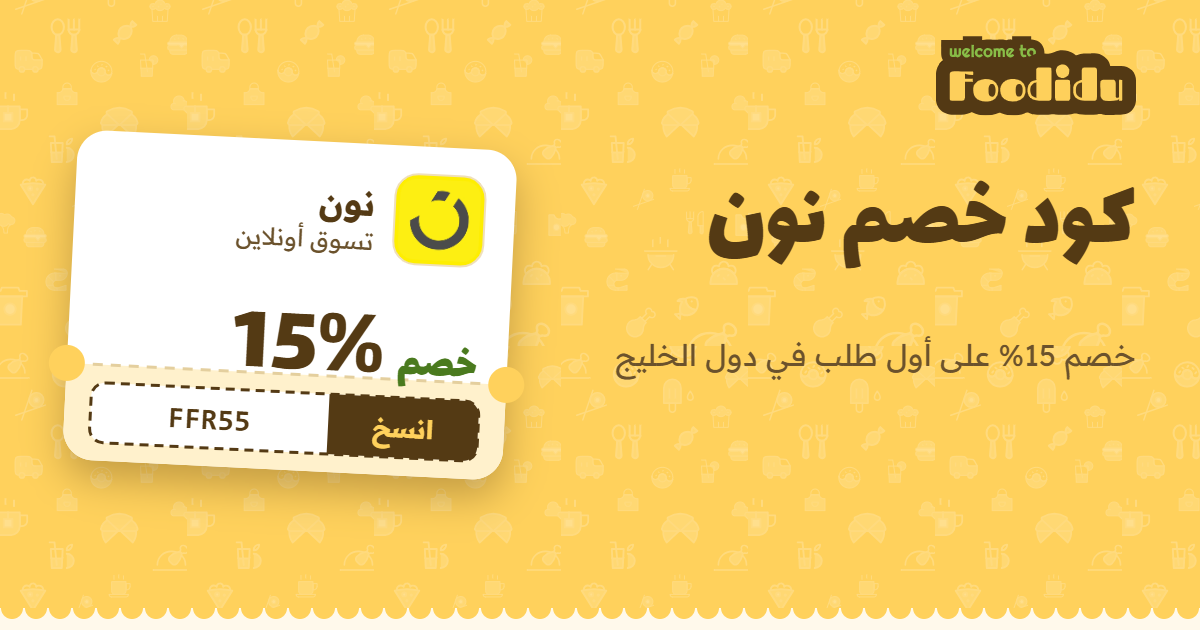
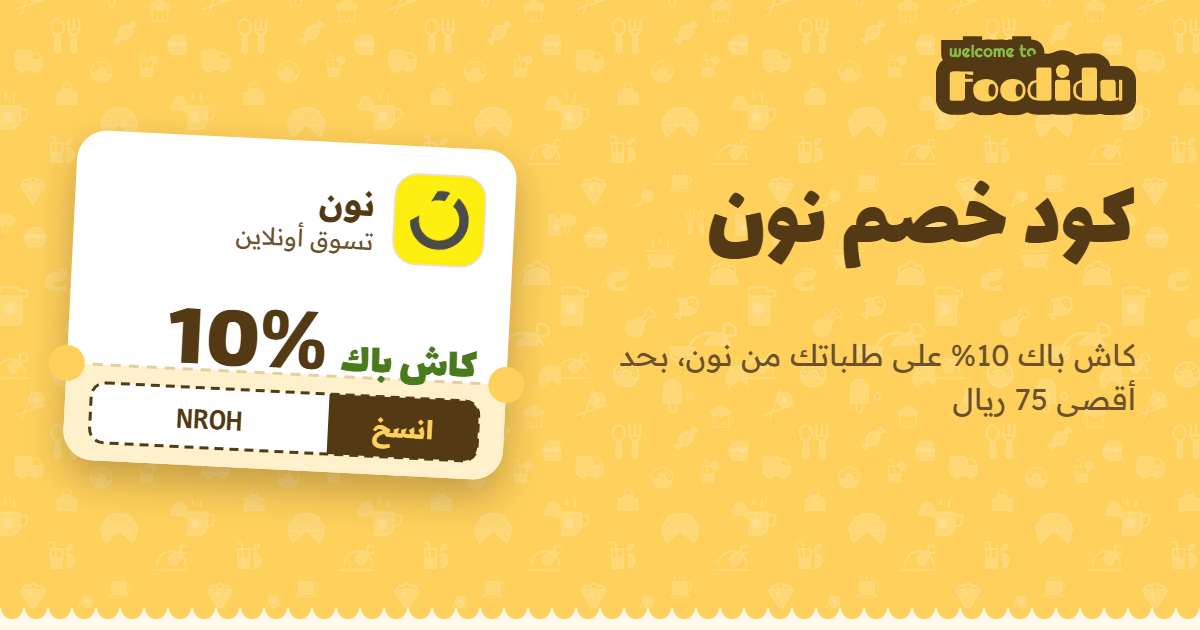
noon GCC: affiliate code NROH replaces FFR55; "Foodidu picks on Amazon" section
- noon (GCC): NROH, 10% cashback up to 75 SAR, valid until 31 Dec 2026 (from the noon affiliate dashboard). No longer a first-order code; White Friday line and share images updated
- data/amazon-picks.json: products the owner picks (ASIN + name + note in en/ar), shown on the Amazon Egypt page with the foodiduoffers-21 tag, rel="nofollow sponsored" and an affiliate disclosure. No prices (Amazon rules). Hidden while empty
- Amazon Egypt page: Arabic steps and about text in the site's standard Arabic

Changed region(s): [[0.4933, 0.5429, 0.9558, 0.6635], [0.1233, 0.4825, 0.4008, 0.6333], [0.1233, 0.6333, 0.2158, 0.6937]]

diff --git a/static/css/site.css b/static/css/site.css
@@ -844,6 +844,13 @@ a.store:hover { background: #000; transform: translateY(-2px); }
   font-family: var(--font-display); font-size: 1.6rem; background: var(--sun); color: var(--ink);
 }
 [lang="ar"] .how li::before { content: counter(how, arabic-indic); }
+.picks { list-style: none; display: grid; gap: 12px; }
+.pick { display: flex; align-items: center; justify-content: space-between; gap: 14px; padding: 16px; background: var(--paper); border: 2px solid var(--line); border-radius: 18px; }
+.pick b { display: block; font-size: 1.05rem; }
+.pick span { color: var(--ink-2); }
+.pick .btn { flex: none; }
+.pk-note { margin: 0 0 14px; }
+@media (max-width: 560px) { .pick { flex-direction: column; align-items: stretch; } }
 .how b { display: block; font-size: 1.05rem; }
 .how span { color: var(--ink-2); }
 .note { margin-top: 18px; font-size: .88rem; color: var(--ink-2); padding: 14px 16px; border-radius: 14px; background: var(--sun-4); }
